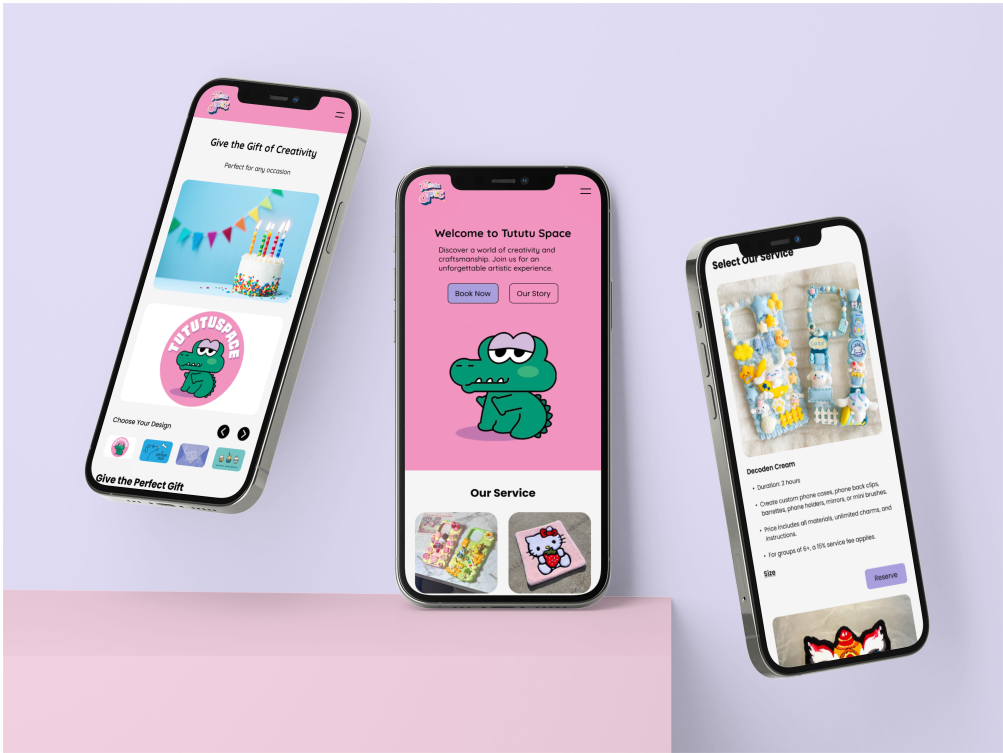
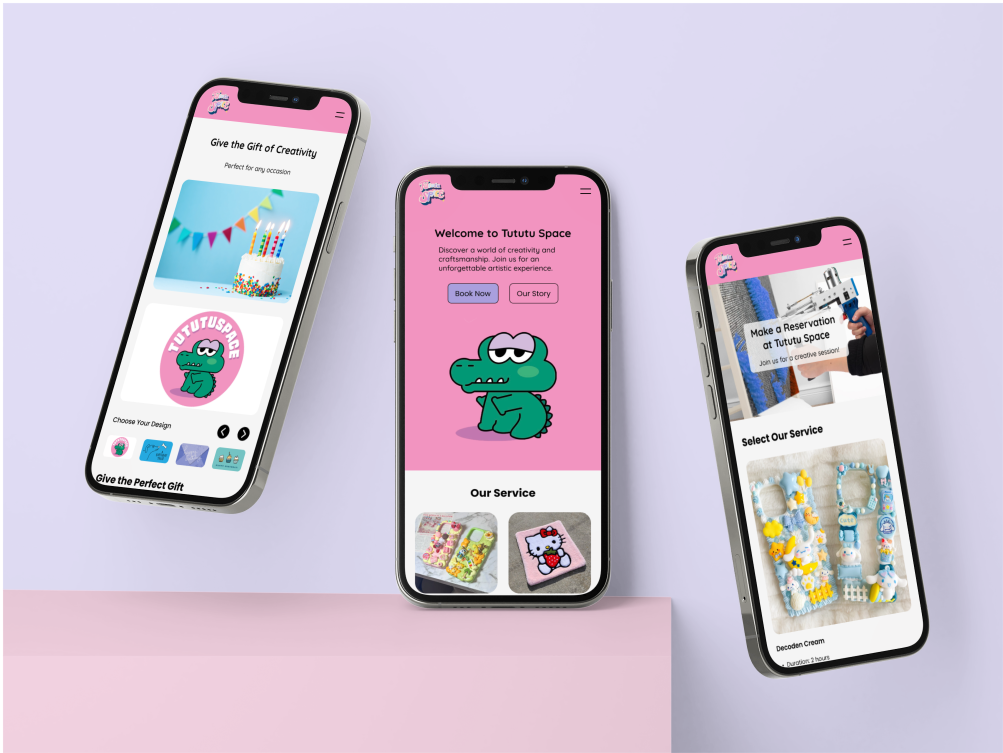
Fix images

Changed region(s): [[0.68, 0.3054, 0.9272, 0.8858]]

diff --git a/tututuspace.html b/tututuspace.html
@@ -77,14 +77,18 @@
             </button>
 
             <section class="row g-5 d-flex align-items-center mt-0">
-                <div class="col-12 col-lg-6">
+                <div class="col-12 col-sm-6">
                     <h1 class="fw-bold  display-2" role="heading">Tututu Space</h1>
                     <h2 class="fw-normal fs-3 mt-4">A modern craft store offering inspiration.</h2>
                 </div>
-                <div class="col-12 col-lg-6 mx-auto">
+                <div class="col-12 col-sm-6 mx-auto">
+                    <picture>
+                        <source srcset="images/tututu-mockup-650_x_396.png" media="(min-width: 750px)" />
 
-                    <img class="img-fluid" src="images/tututu-mockup.png" alt="Tututu Space mockup">
+                        <source srcset="images/tututu-mockup-525_x_319.png" media="(min-width: 450px)" />
 
+                        <img class="img-fluid" src="images/tututu-mockup-525_x_319.png" alt="tututu space mockup">
+                    </picture>
                 </div>
             </section>
 
@@ -166,16 +170,38 @@
                     <div class="col-12 mt-4">
                         <h2 class="fw-bold fs-2 text-start" role="heading">Wireframes</h2>
                         <!-- lo wireframe-->
-                        <div class="col-12 mx-auto mt-4 rounded-3">
-                            <img class="img-fluid" src="images/tututu-low-des.png" alt="">
+                        <div class="col-12 mx-auto mt-4">
+                            <picture>
+                                <source srcset="images/tututu-low-des.png" media="(min-width: 750px)" />
+        
+                                <source srcset="images/tututu-low-des-sm.png" media="(min-width: 450px)" />
+        
+                                <img class="img-fluid rounded-3" src="images/tututu-low-des-sm.png" alt="tututu space desktop Low fidelity wireframe">
+                            </picture>
+                           
+                        </div>
+                        <div class="col-12 mx-auto mt-4">
+                            <picture>
+                                <source srcset="images/tututu-lo-phone-1000_x_884.png" media="(min-width: 750px)" />
+        
+                                <source srcset="images/tututu-lo-phone-800_x_707.png" media="(min-width: 450px)" />
+        
+                                <img class="img-fluid rounded-3" src="images/tututu-lo-phone-800_x_707.png" alt="sushi kan moble Low fidelity wireframe">
+                            </picture>
                         </div>
                     </div>
                 </div>
                 <!-- style-->
                 <div class="col-12">
                     <h2 class="fw-bold fs-2 text-start" role="heading">Style</h2>
-                    <div class="col-12 mx-auto mt-4 rounded-3">
-                        <img class="img-fluid" src="images/tututu-style.png" alt="">
+                    <div class="col-12 mx-auto mt-4">
+                        <picture>
+                            <source srcset="images/tututu-style.png" media="(min-width: 750px)" />
+    
+                            <source srcset="images/tututu-style-sm-800_x_1676.png" media="(min-width: 450px)" />
+    
+                            <img class="img-fluid rounded-3" src="images/tututu-style-sm-800_x_1676.png" alt="tututu space style guide">
+                        </picture>
                     </div>
                 </div>
 

diff --git a/sushikan.html b/sushikan.html
@@ -165,11 +165,11 @@
                 <!-- Low Fidelity Wireframe -->
                 <div class="col-12 col-lg-6 mt-4">
                     <picture>
-                        <source srcset="images/lofi-sushikan-800_x_1536.png" media="(min-width: 750px)" />
+                        <source srcset="images/lofi-sushikan-1000_x_1920.png" media="(min-width: 750px)" />
 
-                        <source srcset="images/lofi-sushikan-1000_x_1920.png" media="(min-width: 450px)" />
+                        <source srcset="images/lofi-sushikan-800_x_1536.png" media="(min-width: 450px)" />
 
-                        <img class="img-fluid rounded-3" src="images/lofi-sushikan-1000_x_1920.png" alt="sushi kan Low fidelity wireframe">
+                        <img class="img-fluid rounded-3" src="images/lofi-sushikan-800_x_1536.png" alt="sushi kan Low fidelity wireframe">
                     </picture>
                   
                 </div>
@@ -187,7 +187,7 @@
                         <picture>
                             <source srcset="images/sushi-style.png" media="(min-width: 750px)" />
     
-                            <source srcset="images/sushi-style-sm.pmg" media="(min-width: 450px)" />
+                            <source srcset="images/sushi-style-sm.png" media="(min-width: 450px)" />
     
                             <img class="img-fluid rounded-3" src="images/sushi-style-sm.png" alt="Sushi Kan style guide">
                         </picture>
@@ -204,11 +204,11 @@
                 </div>
                 <div class="col-lg-6">
                     <picture>
-                        <source srcset="images/hifi-sushikan-800_x_1549.png" media="(min-width: 750px)" />
+                        <source srcset="images/hifi-sushikan-1000_x_1937.png" media="(min-width: 750px)" />
 
-                        <source srcset="images/hifi-sushikan-1000_x_1937.png" media="(min-width: 450px)" />
+                        <source srcset="images/hifi-sushikan-800_x_1549.png" media="(min-width: 450px)" />
 
-                        <img class="img-fluid rounded-3" src="images/hifi-sushikan-1000_x_1937.png" alt="sushi kan high fidelity wireframe">
+                        <img class="img-fluid rounded-3" src="images/hifi-sushikan-800_x_1549.png" alt="sushi kan high fidelity wireframe">
                     </picture>
                 </div>
 
